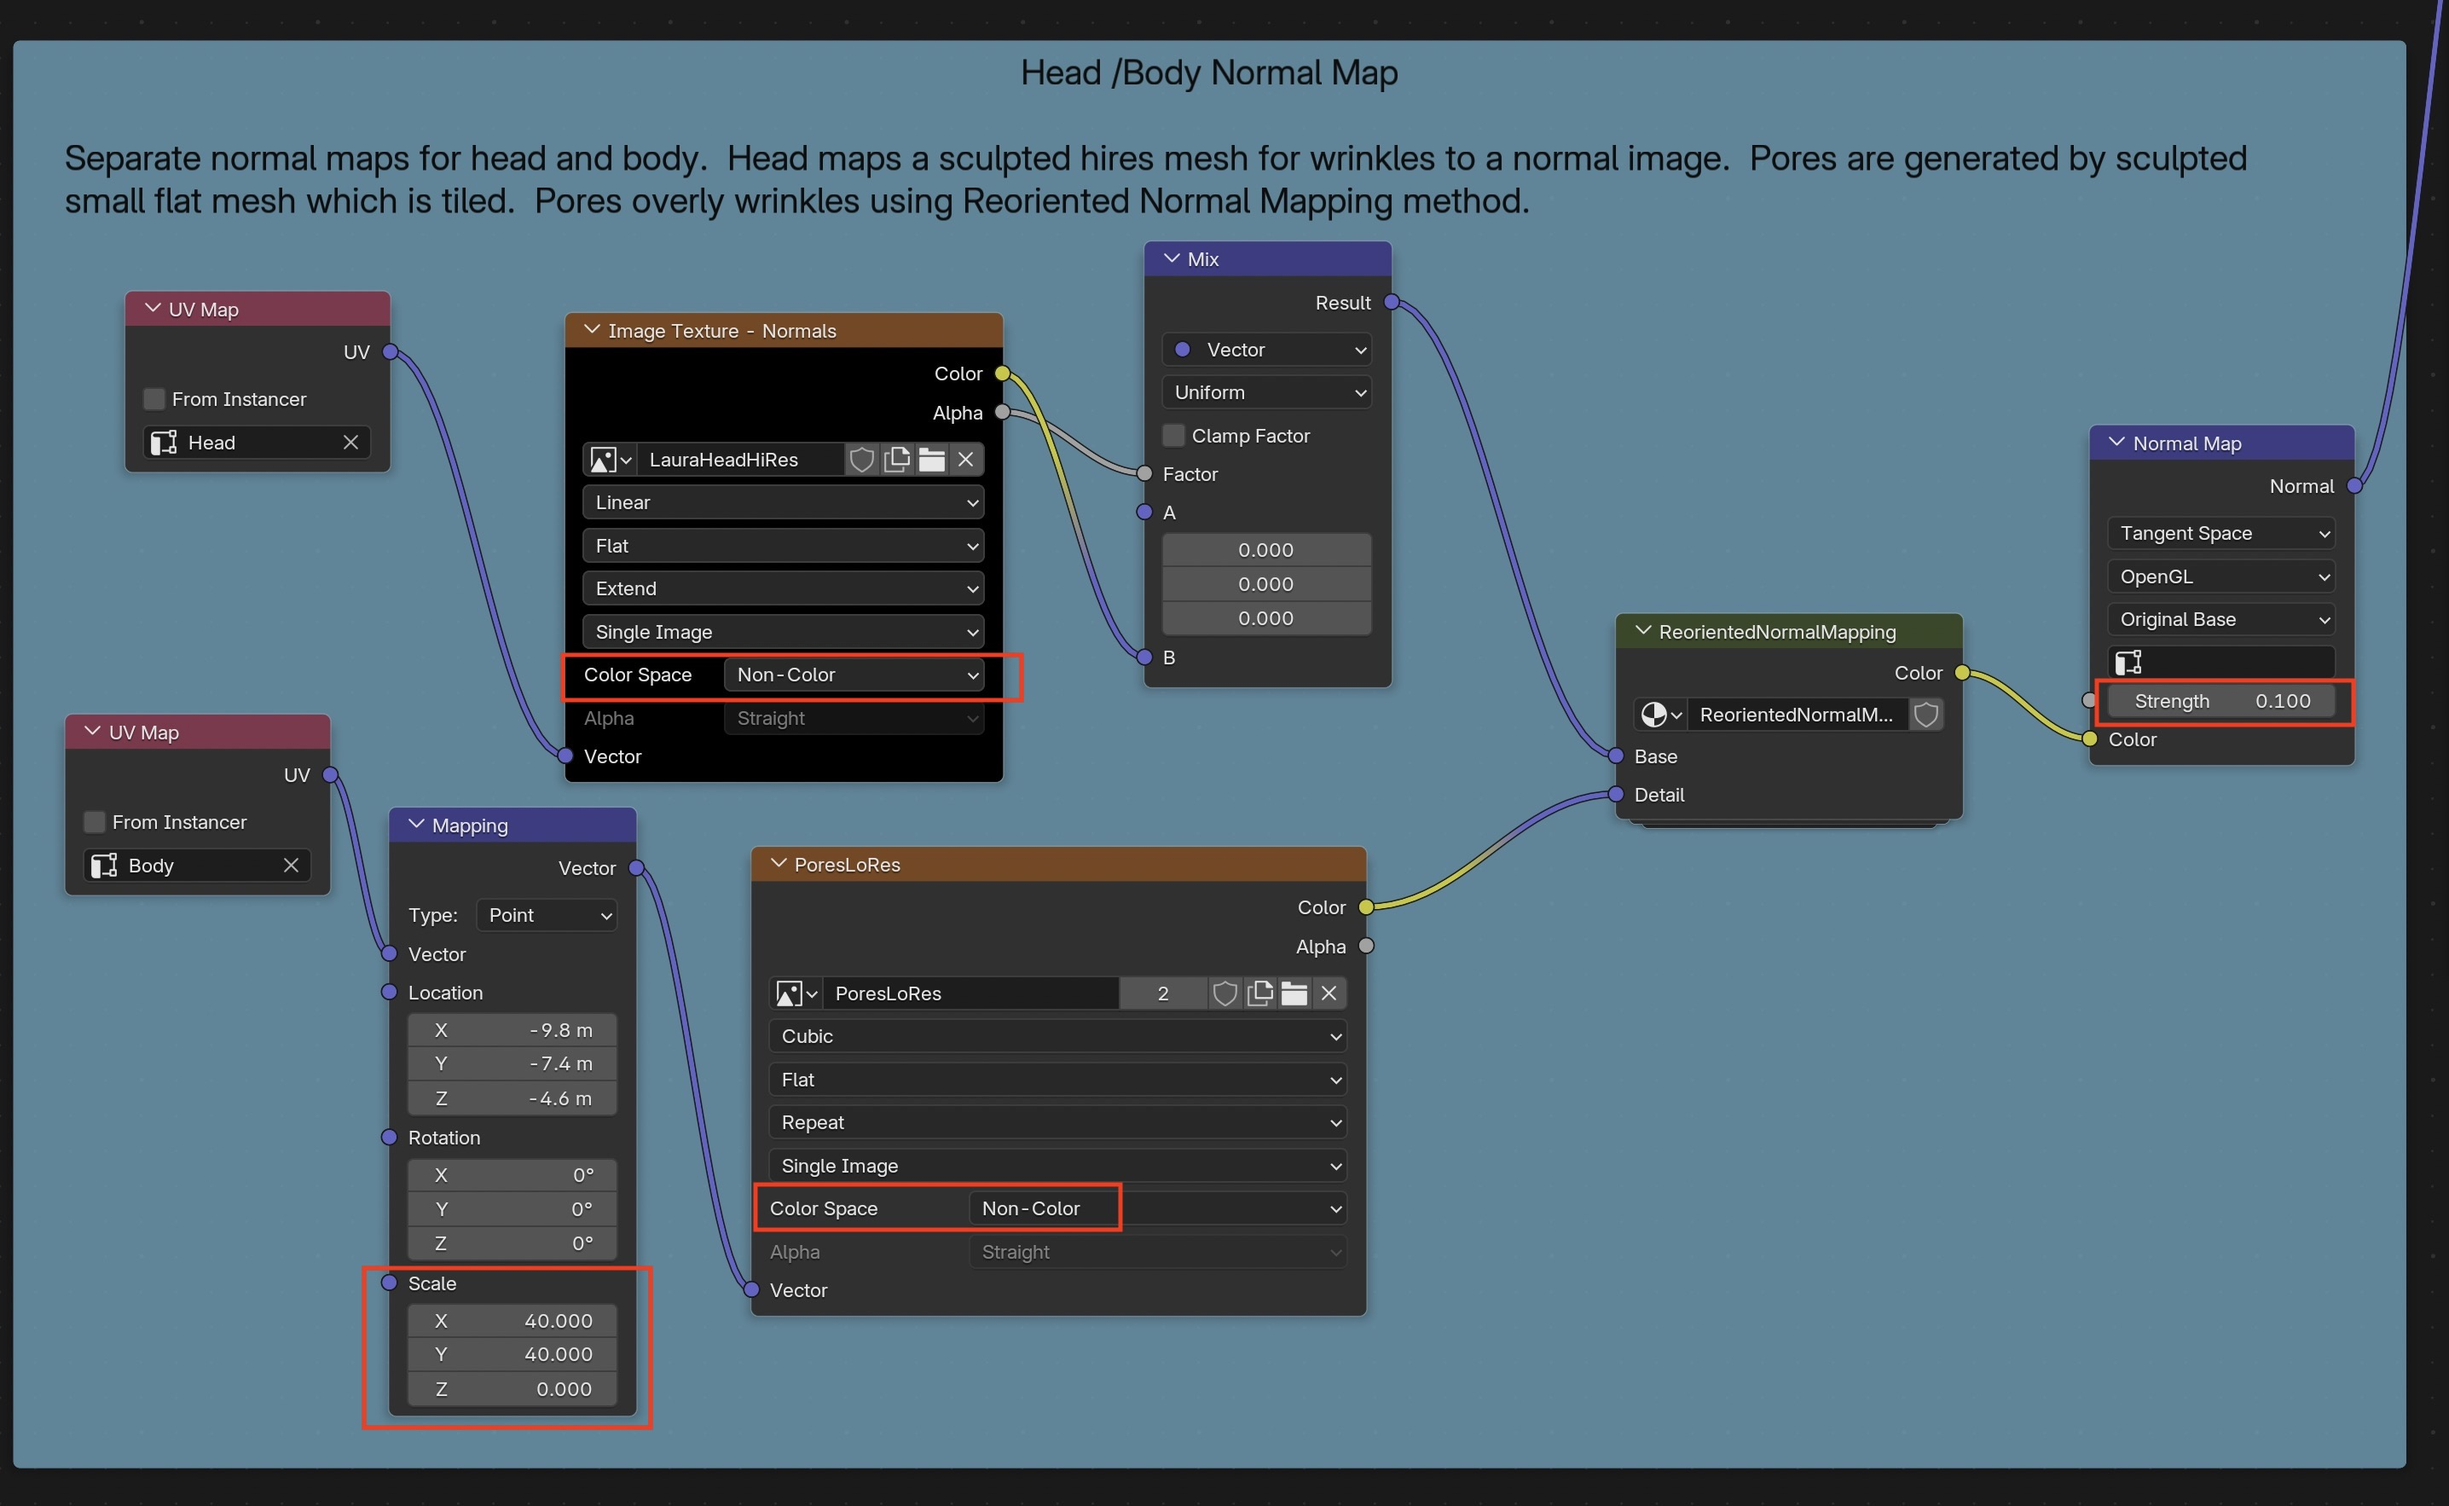
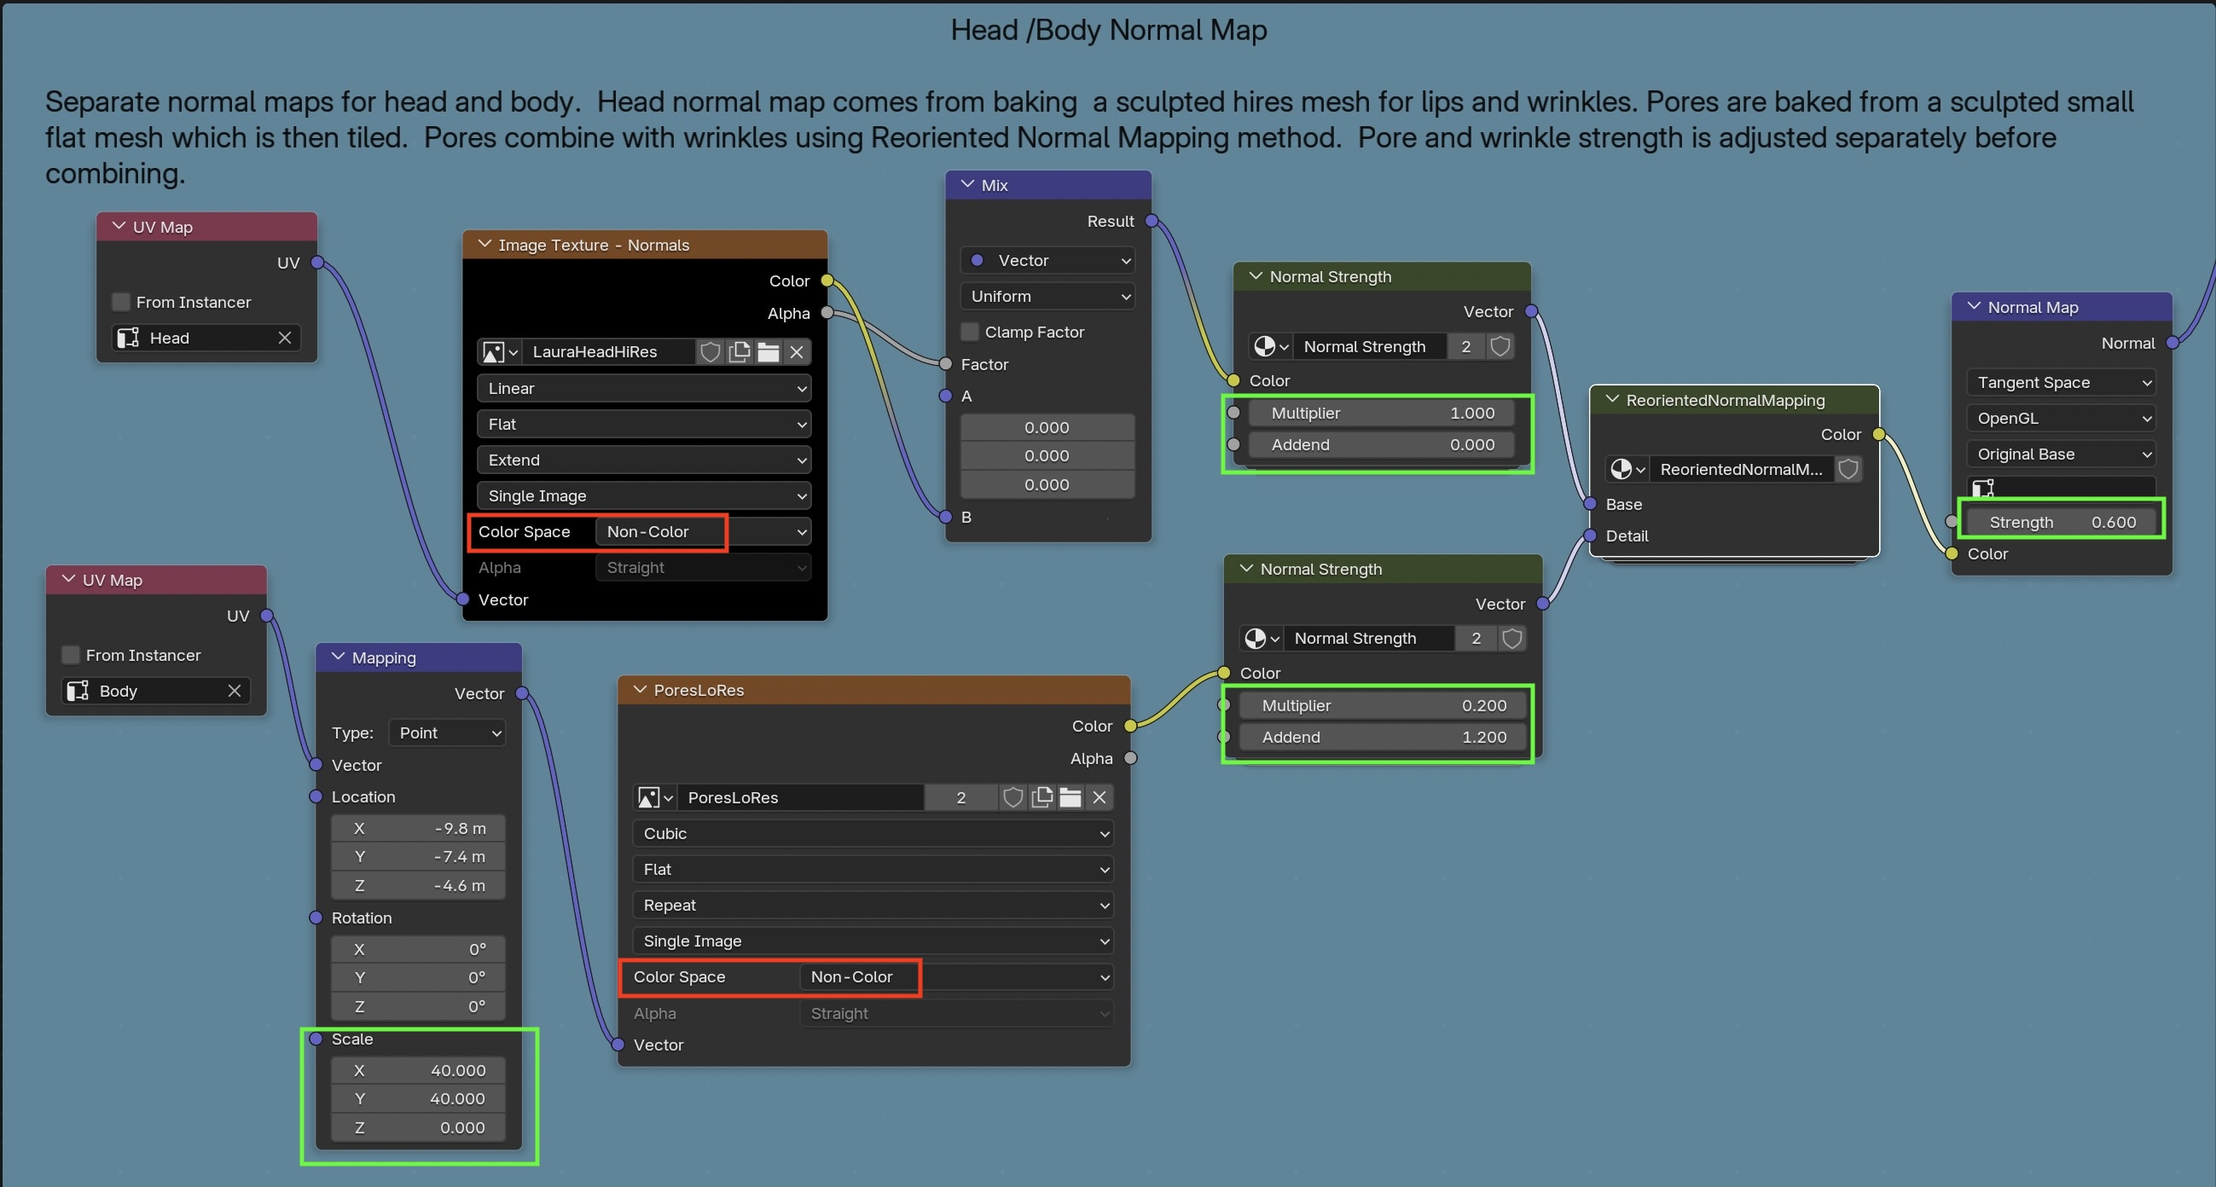
update normal map nodes for Laura

diff --git a/Art/BlenderWorkedExamples.html b/Art/BlenderWorkedExamples.html
@@ -1674,16 +1674,20 @@
                                     <li>
                                         Combine the skin pore normal map with the hi res head normal map for the head.  To combine we use the
                                         <a href="#RNM">Reoriented Normal Mapping</a> technique.
+                                        Before combining, we <a href="#AdjustingNormalMapStrength">adjust the relative strength of the normal maps</a> for both pores and wrinkles.
                                     </li>
                                     <li>
-                                        Apply the skin pore normal map over the entire body.
+                                        We extrapolate the skin pore normal map outside the body beyond the neck into the head.  The head normal map only applies to the head.
+                                    </li>
+                                    <li>
+                                        We do a final <a href="#TweakingNormalMapStrength">overall normal strength adjustment</a>
                                     </li>
                                 </ul>
 
                                 <p>
                                     Here is the normal map node group.  
                                     <img class="centered" alt="X" src="Images/SkinPoresCombined.jpg">
-                                    You'll need to adust the <em class="hotkey">normal map strength</em> in tandem with the subsurface scattering scale, weight and radius settings since SSS washes out the pores.
+                                    You'll need to adust the <em class="hotkey">normal map strengths</em> in tandem with the subsurface scattering scale, weight and radius settings since SSS washes out the pores.
                                 </p>
 
                                 <p>
@@ -4506,7 +4510,7 @@
                     Copyright &copy; 1986-2026 by Sean Erik O'Connor.
                     All Rights Reserved.
                     &nbsp;&nbsp;&nbsp;
-                    last updated 15 Oct 26.
+                    last updated 16 Oct 26.
                 </p>
             </footer>
         </div> <!-- wrapper -->
